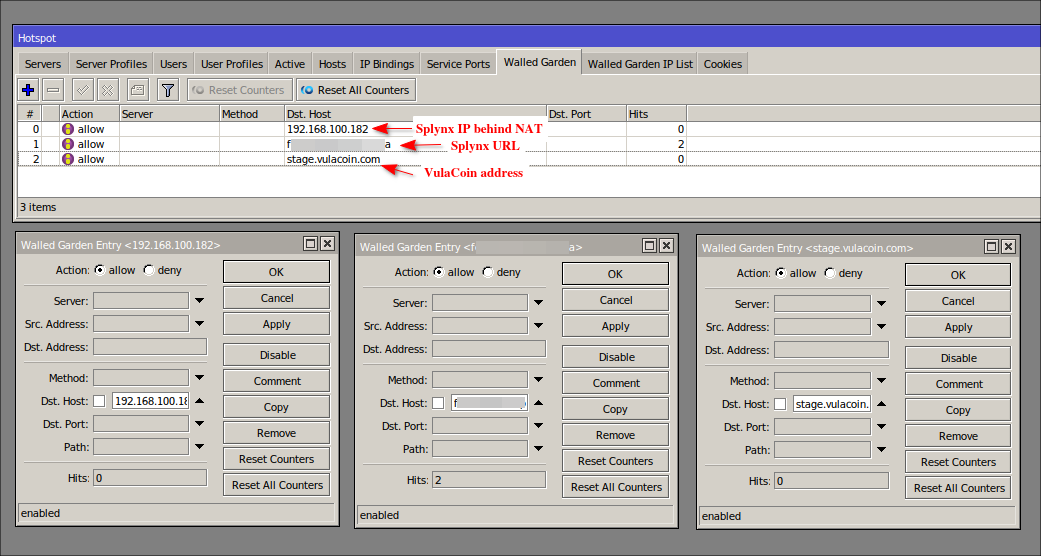
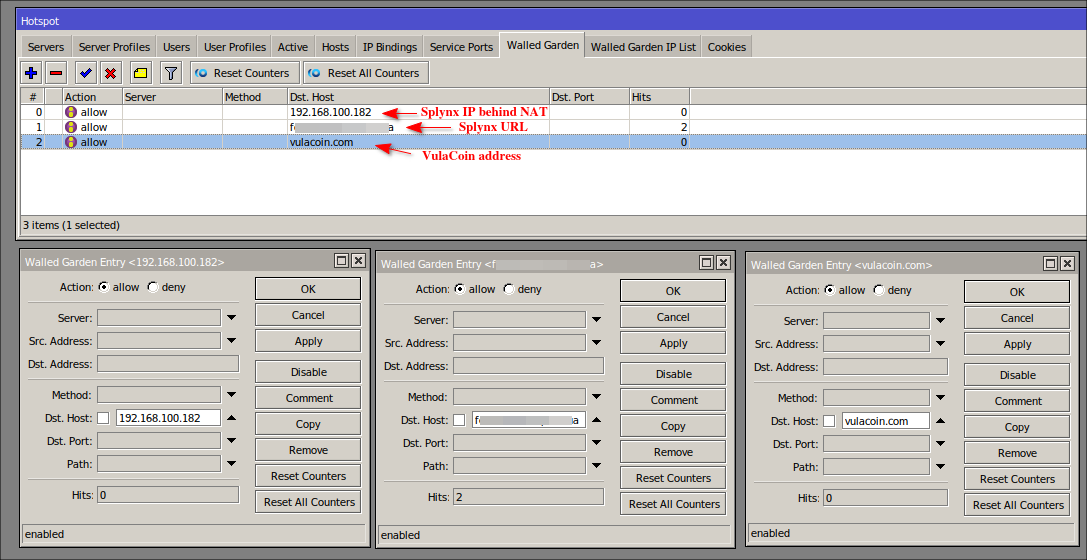
added clarification to Walled Garden URLs

diff --git a/files/en/addons_modules/3cx_addon/3cx_addon.md b/files/en/addons_modules/3cx_addon/3cx_addon.md
@@ -79,7 +79,7 @@ Let's perform the first time configuration of the 3CX system:
 
 1. [Sign up](https://www.3cx.com/ordering/pricing/) on the 3CX web page with preferred price choice
 
-2. Choose the location for the 3CX system, write down your license key and follow the required installation steps. Open the IP of the machine 3CX is installed on followed by port `5015` in a browser, e.g. ```https://<IP_address>:5015```. The *3CX Web Configuration Tool* guides you through important network and security settings.
+2. Choose the location for the 3CX system, write down your license key and follow the required installation steps. Open the IP of the machine 3CX is installed on followed by port `5015` in a browser, e.g. ``` https://<IP_address>:5015 ```. The *3CX Web Configuration Tool* guides you through important network and security settings.
 
 Check the following links for more details:
 
@@ -96,7 +96,7 @@ Check the following links for more details:
 
 ![](img_000012.png)
 
-3. Once the 3CX system installation has finished, open the *3CX Management console* via ```https://<domain/IP>:5001```
+3. Once the 3CX system installation has finished, open the *3CX Management console* via ``` https://<domain/IP>:5001 ```
 
 ![](img_000013.png)
 
@@ -175,7 +175,7 @@ To **check the creation of contacts**, try dialing a number and click on the **C
 
 <icon class="image-icon">![Suggested](bulb.png)</icon> More information about the integration process can be found at the following [link](https://www.3cx.com/docs/crm-integration/).
 
-6. Install [iOS](https://apps.apple.com/us/app/3cx-communications-system/id992045982), [Android](https://play.google.com/store/apps/details?id=com.tcx.sipphone14) or [Windows](https://www.3cx.com/user-manual/installation-windows/) app, navigate to your [3CX Web Client](https://www.3cx.com/user-manual/web-client/) via ```https://<domain/IP>/webclient```, log in using the extension number and password from your email letter and click on *Activate your 3CX Browser Extension*, in the top left-hand corner of the Web Client click *Allow Notifications* to enable desktop notifications, you will see the blue phone icon in the extensions bar in your browser. Click on the icon to open the Browser Extension pop out window.
+6. Install [iOS](https://apps.apple.com/us/app/3cx-communications-system/id992045982), [Android](https://play.google.com/store/apps/details?id=com.tcx.sipphone14) or [Windows](https://www.3cx.com/user-manual/installation-windows/) app, navigate to your [3CX Web Client](https://www.3cx.com/user-manual/web-client/) via ``` https://<domain/IP>/webclient ```, log in using the extension number and password from your email letter and click on *Activate your 3CX Browser Extension*, in the top left-hand corner of the Web Client click *Allow Notifications* to enable desktop notifications, you will see the blue phone icon in the extensions bar in your browser. Click on the icon to open the Browser Extension pop out window.
 Now you can quickly and easily make and receive calls from your desktop without needing to open the full Web Client. Moreover, you can call to customers directly from Splynx.
 
 ![](img_000016.png)

diff --git a/files/en/addons_modules/hotspot_addon/hotspot_addon.md b/files/en/addons_modules/hotspot_addon/hotspot_addon.md
@@ -238,9 +238,15 @@ In `IP → Hotspot → Server Profiles`, the default profile should be with the 
 
 **Step 12**
 
-In `IP → Hotspot → Walled Garden`, configure the following addresses to **Dst. Address** one by one for access by unauthorized clients::
+In `IP → Hotspot → Walled Garden`, configure the following addresses to **Dst. Address** one by one for access by unauthorized clients, where:
 
 ![img](29.png)
+
+- ``` 192.168.100.182 ``` - IP address of your Splynx server behind NAT;
+
+- ``` <splynx_domain> ``` URL of your Splynx, the field should contain only the main domain address (without ```https//:``` | ```www.```, etc.), for example if we have the address ```https://www.portal.mysplynx.com/```, only ```portal.mysplynx.com```  should be used;
+
+- ``` vulacoin.com ``` - URL of VulaCoin service.
 
 ### Connection to HotSpot and Payments via VulaCoin
 
